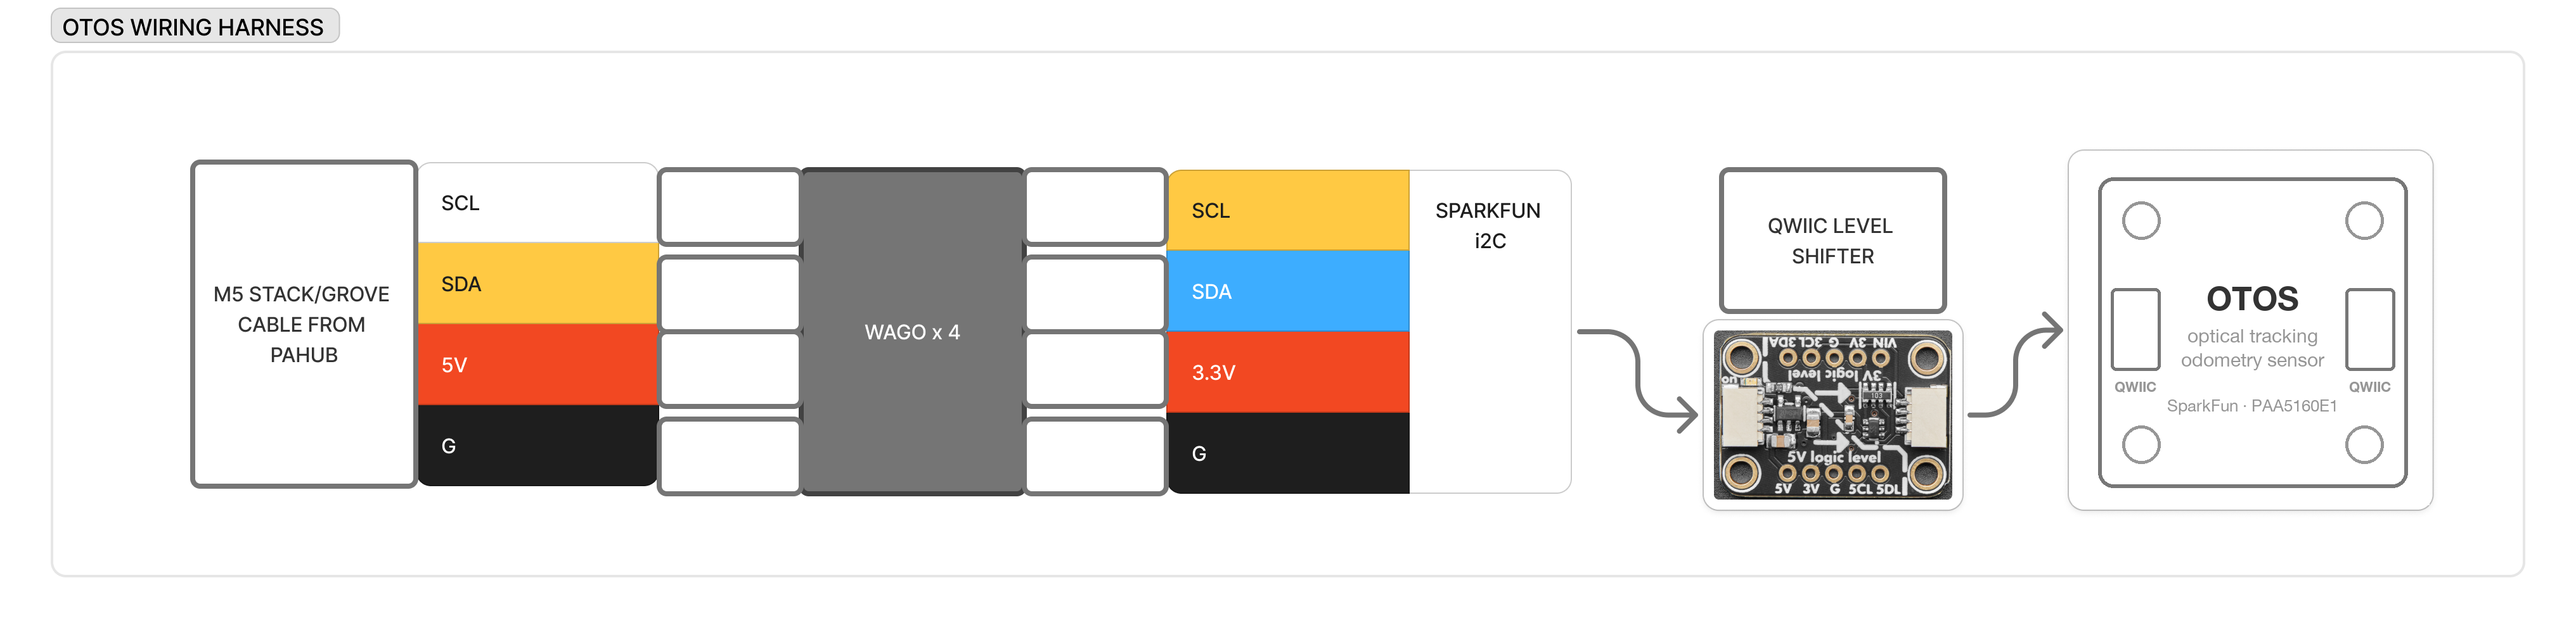
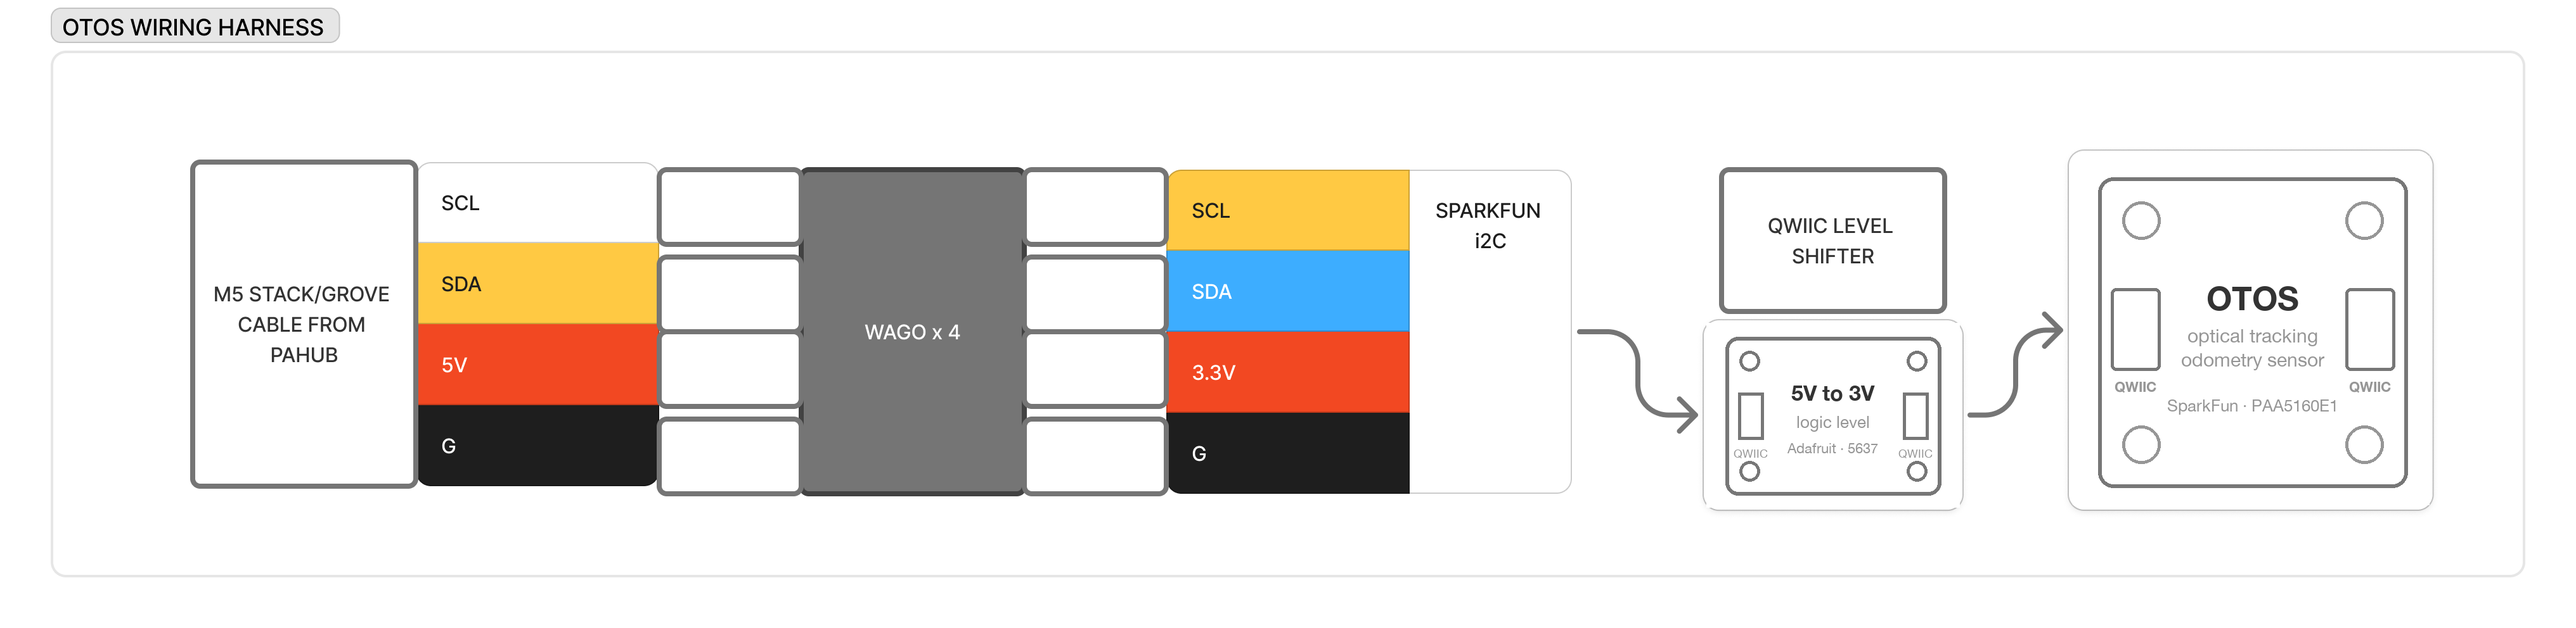
docs: draw the transmitter, the receiver and the level converter as outlines
Three diagrams still carried vendor product images: the RadioLink T8S render in
the RC control mapping, the R8EF's labelled render in the receiver wiring, and
Adafruit's photo of its level converter in the OTOS harness. Each is now a
labelled outline in the diagrams' own style, like the StamPLC and OTOS redraws:
the transmitter with its sticks and shoulder switches where the arrows point, the
receiver's pin header with the SBUS row in the cable's colours, and the converter
board with its Qwiic ports. The arrows, boxes and labels around them are kept.
The vendor-image credits go with the images.

Changed region(s): [[0.6562, 0.5, 0.7812, 0.8125]]

diff --git a/docs/build/rc-receiver.md b/docs/build/rc-receiver.md
@@ -12,7 +12,7 @@ inverted in firmware). You make a short **Grove-to-servo pigtail** to bridge the
 <figure markdown="span">
   ![RC receiver (RadioLink R8EF) wiring — StamPLC blue Grove port to the SBUS servo pins](../assets/diagrams/rc-rcvr-wiring.png)
   <figcaption>The pigtail: StamPLC blue-port Grove (G4 unused · G5 signal · 5 V · GND) → servo
-  cable → the receiver's SBUS pins (Signal / VCC+ / GND−). Receiver shown: RadioLink R8EF.<br><small>Product images: RadioLink R8EF receiver, with its pin labels, © RadioLink, all rights reserved, used to identify the part. They are not covered by this site's CC BY 4.0 licence.</small></figcaption>
+  cable → the receiver's SBUS pins (Signal / VCC+ / GND−). Receiver shown: RadioLink R8EF.</figcaption>
 </figure>
 
 - **Diagram source (Figma):** [OpenDubs board — RC controls](https://www.figma.com/board/LVbgJwMKO65TARF3m6v7I6/OpenDubs?node-id=2-83) — anyone with the link can view and export it.

diff --git a/docs/build/otos.md b/docs/build/otos.md
@@ -82,7 +82,7 @@ The wiring harness — the 5 V M5 Grove cable from the PaHub, joined through WAG
   ![OTOS wiring harness — M5 Grove cable from the PaHub, four WAGOs, the Adafruit level converter, then the OTOS](../assets/diagrams/otos-wiring-harness.png)
   <figcaption>The PaHub Grove cable (SCL / SDA / 5 V / GND) joins through four WAGOs to the Adafruit
   logic level converter; its 3.3 V side runs over Qwiic to the OTOS. The level converter is what
-  keeps the 5 V bus off the 3.3 V sensor.<br><small>Product photo: Adafruit QT 5V to 3V Level Shifter, © Adafruit Industries, all rights reserved, used to identify the part. It is not covered by this site's CC BY 4.0 licence.</small></figcaption>
+  keeps the 5 V bus off the 3.3 V sensor.</figcaption>
 </figure>
 
 The build splits cleanly in two, and the photos follow that split: **Construction** is all

diff --git a/docs/rc-control-mapping.md b/docs/rc-control-mapping.md
@@ -2,7 +2,7 @@
 
 <figure markdown="span">
   ![RC transmitter control mapping](assets/diagrams/rc-control-mapping.png)
-  <figcaption>Which stick / switch drives which robot function.<br><small>Product images: RadioLink T8S transmitter, © RadioLink, all rights reserved, used to identify the part. They are not covered by this site's CC BY 4.0 licence.</small></figcaption>
+  <figcaption>Which stick / switch drives which robot function.</figcaption>
 </figure>
 
 - **Diagram source (Figma):** [OpenDubs board — RC controls](https://www.figma.com/board/LVbgJwMKO65TARF3m6v7I6/OpenDubs?node-id=2-83) — anyone with the link can view and export it.

diff --git a/docs/operating.md b/docs/operating.md
@@ -34,7 +34,7 @@ robot keeps thinking, reporting and showing state while its actuators are dead.
 
 <figure markdown="span">
   ![RC transmitter control mapping — which stick and switch drives which robot function](assets/diagrams/rc-control-mapping.png)
-  <figcaption>Physical layout of the sticks and switches.<br><small>Product images: RadioLink T8S transmitter, © RadioLink, all rights reserved, used to identify the part. They are not covered by this site's CC BY 4.0 licence.</small></figcaption>
+  <figcaption>Physical layout of the sticks and switches.</figcaption>
 </figure>
 
 | Channel | Function |
